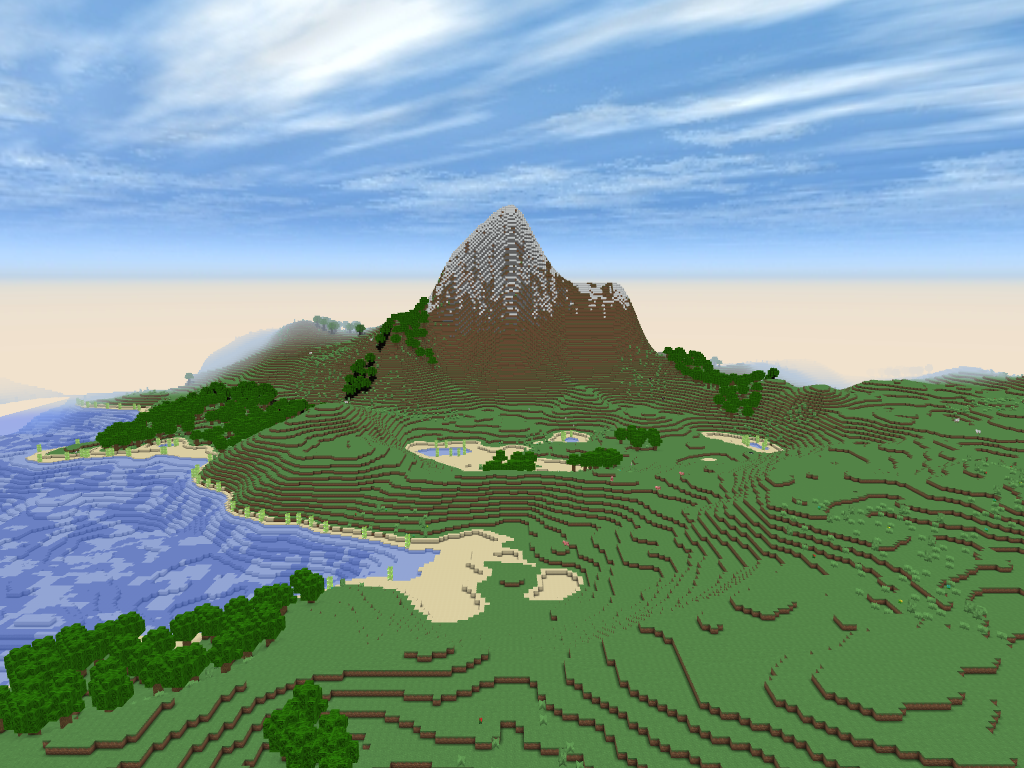
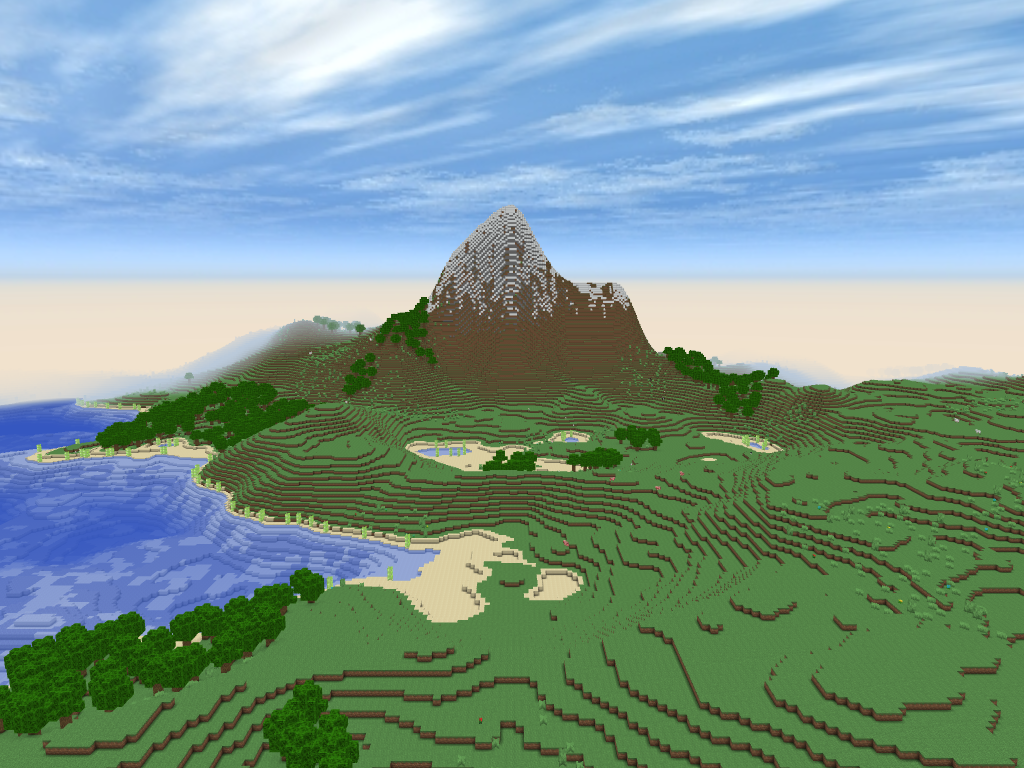
Rename the new_terrain readme screenshot to repheim and refresh captures
The scene now matches the repheim band name used in docs/dimensions.md;
nether's camera spec was also updated and the PNGs regenerated.

Generated with [Devin](https://devin.ai)

Changed region(s): [[0.0, 0.625, 0.2188, 0.75], [0.0, 0.4688, 0.2188, 0.5938], [0.3438, 0.4688, 0.375, 0.5312]]

diff --git a/tools/readme_screenshots.py b/tools/readme_screenshots.py
@@ -10,7 +10,7 @@ Scenes:
                blocks up — the same shot as screenshots/repgame.png
   nether       the nether cavern band (slot 1, encoded y -5952..-1985, see
                docs/dimensions.md): lava sea + shelf ledges at x/z 0
-  new_terrain  the repheim band (slot 3) — the reworked generator, identical
+  repheim      the repheim band (slot 3) — the reworked generator, identical
                to a new-gen overworld at the same x/z. Same camera as the
                overworld shot, at the repheim-encoded y.
   end          the End (slot 2): island + obsidian pillars at x/z 0
@@ -39,8 +39,8 @@ REP_DBG = os.path.join(REPO, "tools", "rep-dbg")
 #   end     = 1984 + local y      (local ~2048 island surface, ~2074 above it)
 SCENES = {
     "overworld": {"build": "release", "spec": "0.5,66,0.5,90,9"},
-    "nether": {"build": "release", "spec": "96,-5860,0,270,15"},
-    "new_terrain": {"build": "release", "spec": "300,-7856,200,225,10"},
+    "nether": {"build": "release", "spec": "2823,-5816,-249,270,15"},
+    "repheim": {"build": "release", "spec": "300,-7856,200,225,10"},
     "end": {"build": "release", "spec": "130,4058,0.5,270,14"},
 }
 

diff --git a/README.md b/README.md
@@ -6,7 +6,7 @@ RepGame is a Minecraft clone written by @Repkap11 in C++.
 
 <p align="center">
   <img src="screenshots/nether.png" alt="The Nether" width="32%"/>
-  <img src="screenshots/new_terrain.png" alt="New terrain generator" width="32%"/>
+  <img src="screenshots/repheim.png" alt="New terrain generator" width="32%"/>
   <img src="screenshots/end.png" alt="The End" width="32%"/>
 </p>
 
